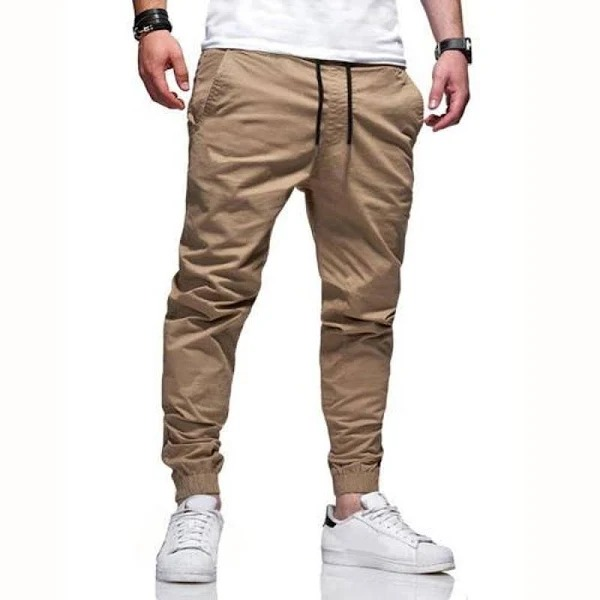
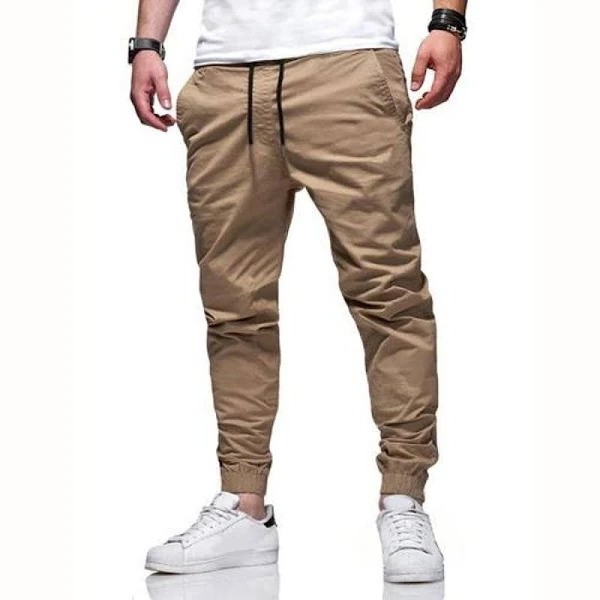
Arredondando bordas #produtos img

diff --git a/main.css b/main.css
@@ -56,6 +56,10 @@
     font-style: italic;
 }
 
+#produtos img {
+    border-radius: 9%;
+}
+
 #produtos img:hover {
     transition: all ease 0.7s;
     transform: scale(1.1);
